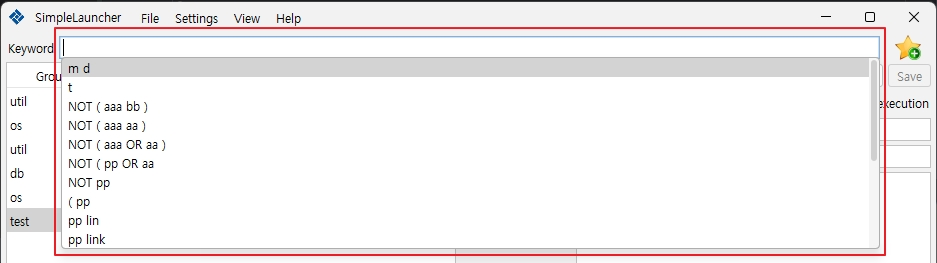
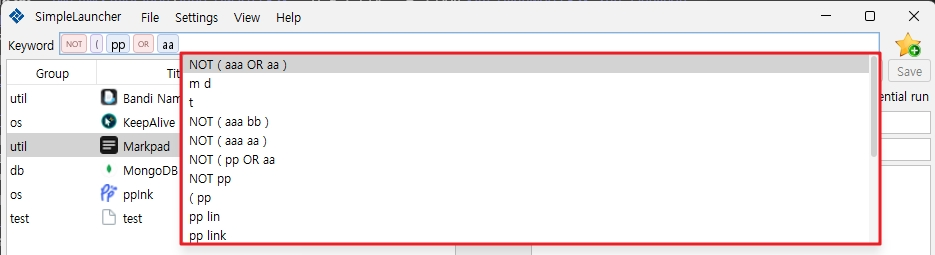
update readme: add link, keyword search and macOS shortcuts

Changed region(s): [[0.0, 0.0, 1.0, 1.0]]

diff --git a/README.md b/README.md
@@ -7,9 +7,156 @@ You can configure each launcher item with a **relative path** or a **custom comm
 
 ![screenshot](./doc/screenshot.jpg?raw=true)
 
+## Add link
+
+Click the **star button** at the top right (or press `Ctrl + Shift + N`) and pick a file to add a new launcher item.
+
+![add-link-by-click.jpg](doc/add-link-by-click.jpg)
+
+Or, you can drag and drop a file or directory onto the main window to add a new launcher item.
+
+![add-link-by-drag-n-drop.jpg](doc/add-link-by-drag-n-drop.jpg)
+
+## Keyword search
+
+The **Keyword** field searches the title and hashtags of each link (the group filter, `Alt + G`, searches groups the same way).
+Matching ignores case. A term matches when the text contains it, or contains its letters in order (`kpa` finds `KeepAlive`).
+
+A search is a row of chips: terms, operators and parentheses.
+
+![keyword token](./doc/keyword-token.jpg?raw=true)
+
+The search above, `NOT ( aaa OR aa )`, lists the links that contain neither `aaa` nor `aa`.
+
+### Building chips
+
+On macOS, use **Cmd** instead of **Ctrl**.
+
+| Key                      | Action                                                                            |
+|--------------------------|-----------------------------------------------------------------------------------|
+| Enter                    | Turn the typed text into a term chip and search                                   |
+| Ctrl + Enter             | Add the typed text as a term chip, even if it is `and`, `or` or `not`             |
+| Shift + Enter            | Add the typed text as a term joined with OR (`and`, `or`, `not` become operators) |
+| Ctrl + Shift + Enter     | Add the typed text as an operator or parenthesis chip                             |
+| Left / Right             | Move the cursor between chips                                                     |
+| Backspace / Delete       | Remove the chip next to the cursor (or the selected chip)                         |
+| Ctrl + Z                 | Undo the last chip change (while the input is empty)                              |
+| Right-click on the blank | Paste the clipboard                                                               |
+
+### Operators
+
+| Operator    | Typed as                  | Meaning                        |
+|-------------|---------------------------|--------------------------------|
+| NOT         | `not`, `-`, `!`           | Exclude the next term or group |
+| AND         | `and`, `&`, `&&`          | Both sides must match          |
+| OR          | `or`, `,`, `\|`           | Either side matches            |
+| Parentheses | `(` `)`, `[` `]`, `{` `}` | Group terms                    |
+
+- Chips without an operator between them are joined with AND.
+- Precedence is NOT > AND > OR. Use parentheses to change it.
+- Terms excluded by NOT (directly or inside a NOT group) match by substring only, without the in-order letter matching.
+- If the expression is incomplete (for example, it ends with an operator), links that match any of its terms are listed.
+
+## Shortcuts
+
+All shortcuts can be changed in **Settings > Shortcuts**. The defaults are listed below.
+On macOS, use **Cmd** instead of **Ctrl**.
+
+### Menu
+
+| Shortcut             | Description                   |
+|----------------------|-------------------------------|
+| Ctrl + Shift + **I** | Import application catalog    |
+| Ctrl + Shift + **X** | Export application catalog    |
+| Ctrl + **,**         | Open shortcut settings        |
+| Alt + **E**          | Toggle detail launcher editor |
+| Alt + **G**          | Toggle group filter           |
+| Ctrl + Shift + **F** | Keep window always on top     |
+| **F1**               | Show about                    |
+
+### Main Catalog
+
+| Shortcut             | Description                    |
+|----------------------|--------------------------------|
+| Enter                | Execute item                   |
+| Delete               | Delete item                    |
+| Ctrl + **C**         | Copy item folder path          |
+| Ctrl + Shift + **O** | Open item folder               |
+| Tab                  | Move focus to the link editor  |
+| Esc                  | Move focus to the search field |
+
+### Link Editor
+
+Only works when the Link Editor is open.
+
+| Shortcut                  | Description              |
+|---------------------------|--------------------------|
+| Ctrl + **N**              | New item                 |
+| Ctrl + Shift + **N**      | Create link from file    |
+| Ctrl + Shift + **Delete** | Delete item              |
+| Ctrl + **D**              | Duplicate item           |
+| Ctrl + **S**              | Save item                |
+| Ctrl + Shift + **C**      | Copy item folder path    |
+| Ctrl + **O**              | Open item folder         |
+| Ctrl + **I**              | Change item icon         |
+
+![link editor](./doc/link-editor.jpg?raw=true)
+
+### Keyword History
+
+When the keyword field is focused, enter history mode by pressing **Alt + Down**.
+
+![history mode](./doc/keyword-autocomplete.jpg?raw=true)
+
+#### Keyword History Functions
+
+| Shortcut        | Description                      |
+|-----------------|----------------------------------|
+| Alt + **Left**  | Move to the previous search word |
+| Alt + **Right** | Move to the next search word     |
+| Any key         | Filter executed links            |
+| Esc             | Exit history mode                |
+
+## Binding Parameters
+
+An item's **option** (or prefix option) can include placeholders.
+When you drag and drop a file (or directory) onto an item, these placeholders are replaced with path values.
+
+| Parameter      | Description                      | Example                        |
+|----------------|----------------------------------|--------------------------------|
+| \${path}       | Full file path                   | C:\\Users\\user\\readme.md     |
+| \${path-unix}  | Full file path (Unix style)      | C:/Users/user/readme.md        |
+| \${dir}        | File directory path              | C:\\Users\\user                |
+| \${dir-unix}   | File directory (Unix style)      | C:/Users/user                  |
+| \${file}       | File name                        | readme.md                      |
+| \${name}       | File name without extension      | readme                         |
+| \${ext}        | Extension                        | md                             |
+| \${home}       | User home directory              | C:\\Users\\***user***          |
+| \${home-unix}  | User home directory (Unix style) | C:/Users/***user***            |
+
+**Note:** `${path}` and `${path-unix}` (likewise `${dir}`, `${home}`) differ only on Windows.
+
+### Example
+
+```shell
+ape2wav.exe "${path}" "${dir}\\${name}.wav"
+```
+
+## Data migration
+
+In most cases, upgrading to a newer version works without manual migration.
+
+If your catalog or settings are not preserved after an upgrade, use file export/import:
+
+1. In the previous version, export the catalog (`Ctrl + Shift + X`).
+2. Upgrade or install the new version.
+3. In the new version, import the catalog (`Ctrl + Shift + I`).
+
+This is the recommended fallback method when automatic upgrade does not work as expected.
+
 ## Requirements
 
-- Java 17 or higher
+- Java 25 or higher
 
 ## Build
 
@@ -31,114 +178,13 @@ gradlew build
 gradlew run
 ```
 
-#### 4. Create Native Executable (clean build)
+#### 4. Create native executable
 
-- Create a native executable (`.exe` on Windows) with jpackage:
-
-```shell
-gradlew clean makeExecutable
-```
-
-- The executable is generated in `build/dist/simplelauncher/`.
-
-#### 5. Create Native Executable
-
-- Create a native executable (`.exe` on Windows) with jpackage:
+Create a native executable (`.exe` on Windows) with jpackage.
+Prepend `clean` (`gradlew clean makeExecutable`) for a clean build.
 
 ```shell
 gradlew makeExecutable
 ```
 
-- The executable is generated in `build/dist/simplelauncher/`.
-
-## Migration
-
-In most cases, upgrading to a newer version works without manual migration.
-
-If your catalog or settings are not preserved after an upgrade, use file export/import:
-
-1. In the previous version, export the catalog (`Ctrl + Shift + X`).
-2. Upgrade or install the new version.
-3. In the new version, import the catalog (`Ctrl + Shift + I`).
-
-This is the recommended fallback method when automatic upgrade does not work as expected.
-
-## Shortcuts
-
-### Menu
-
-| Shortcut             | Description                 |
-|----------------------|-----------------------------|
-| Ctrl + Shift + **I** | Import application catalog  |
-| Ctrl + Shift + **X** | Export application catalog  |
-| Ctrl + Shift + **D** | Clear application catalog   |
-| Alt + **E**          | Toggle detail launcher editor |
-| Alt + **V**          | Toggle menu bar             |
-| Alt + **G**          | Toggle group filter         |
-| Ctrl + Shift + **F** | Keep window always on top   |
-| **F1**               | Show help                   |
-
-### Main Catalog
-
-| Shortcut     | Description              |
-|--------------|--------------------------|
-| Enter        | Execute item             |
-| Delete       | Delete item              |
-| Ctrl + **C** | Copy item folder path    |
-
-### Link Editor
-
-Only works when the Link Editor is open.
-
-| Shortcut             | Description              |
-|----------------------|--------------------------|
-| Ctrl + **N**         | New item                 |
-| Ctrl + Shift + **N** | Create link from file    |
-| Shift + **Del**      | Delete item              |
-| Ctrl + **D**         | Duplicate item           |
-| Ctrl + **S**         | Save item                |
-| Ctrl + Shift + **C** | Copy item folder path    |
-| Ctrl + **O**         | Open item folder         |
-| Ctrl + **I**         | Change item icon         |
-
-![link editor](./doc/link-editor.jpg?raw=true)
-
-### Keyword History
-
-When the keyword field is focused, Enter history mode by pressing **Alt + Down**.
-
-![history mode](./doc/keyword-autocomplete.jpg?raw=true)
-
-#### Keyword History Functions
-
-| Shortcut        | Description                                                            |
-|-----------------|------------------------------------------------------------------------|
-| Alt + **Left**  | Move to the previous search word                                       |
-| Alt + **Right** | Move to the next search word                                           |
-| Any key         | Filter executed links ![autocompleted links](./doc/keyword-autocomplete.jpg?raw=true) |
-| Esc             | Exit history mode                                                      |
-
-## Binding Parameters
-
-An item's **option** (or prefix option) can include placeholders.
-When you drag and drop a file (or directory) onto an item, these placeholders are replaced with path values.
-
-| Parameter      | Description                 | Example                |
-|----------------|-----------------------------|------------------------|
-| \${path}       | Full file path              | \\usr\\path\\readme.md |
-| \${path-unix}  | Full file path (Unix style) | /usr/path/readme.md    |
-| \${dir}        | File directory path         | \\user\\path           |
-| \${dir-unix}   | File directory (Unix style) | /user/path             |
-| \${file}       | File name                   | readme.md              |
-| \${name}       | File name without extension | readme                 |
-| \${ext}        | Extension                   | md                     |
-| \${home}       | User home directory         | \\home\\***user***     |
-| \${home-unix}  | User home directory (Unix style) | /home/***user*** |
-
-**Note:** `\${path}` and `\${dir}` are different only on Windows.
-
-### Example
-
-```shell
-ape2wav.exe "${path}" "${dir}\\${name}.wav"
-```
+The executable is generated in `build/dist/simplelauncher/`.
